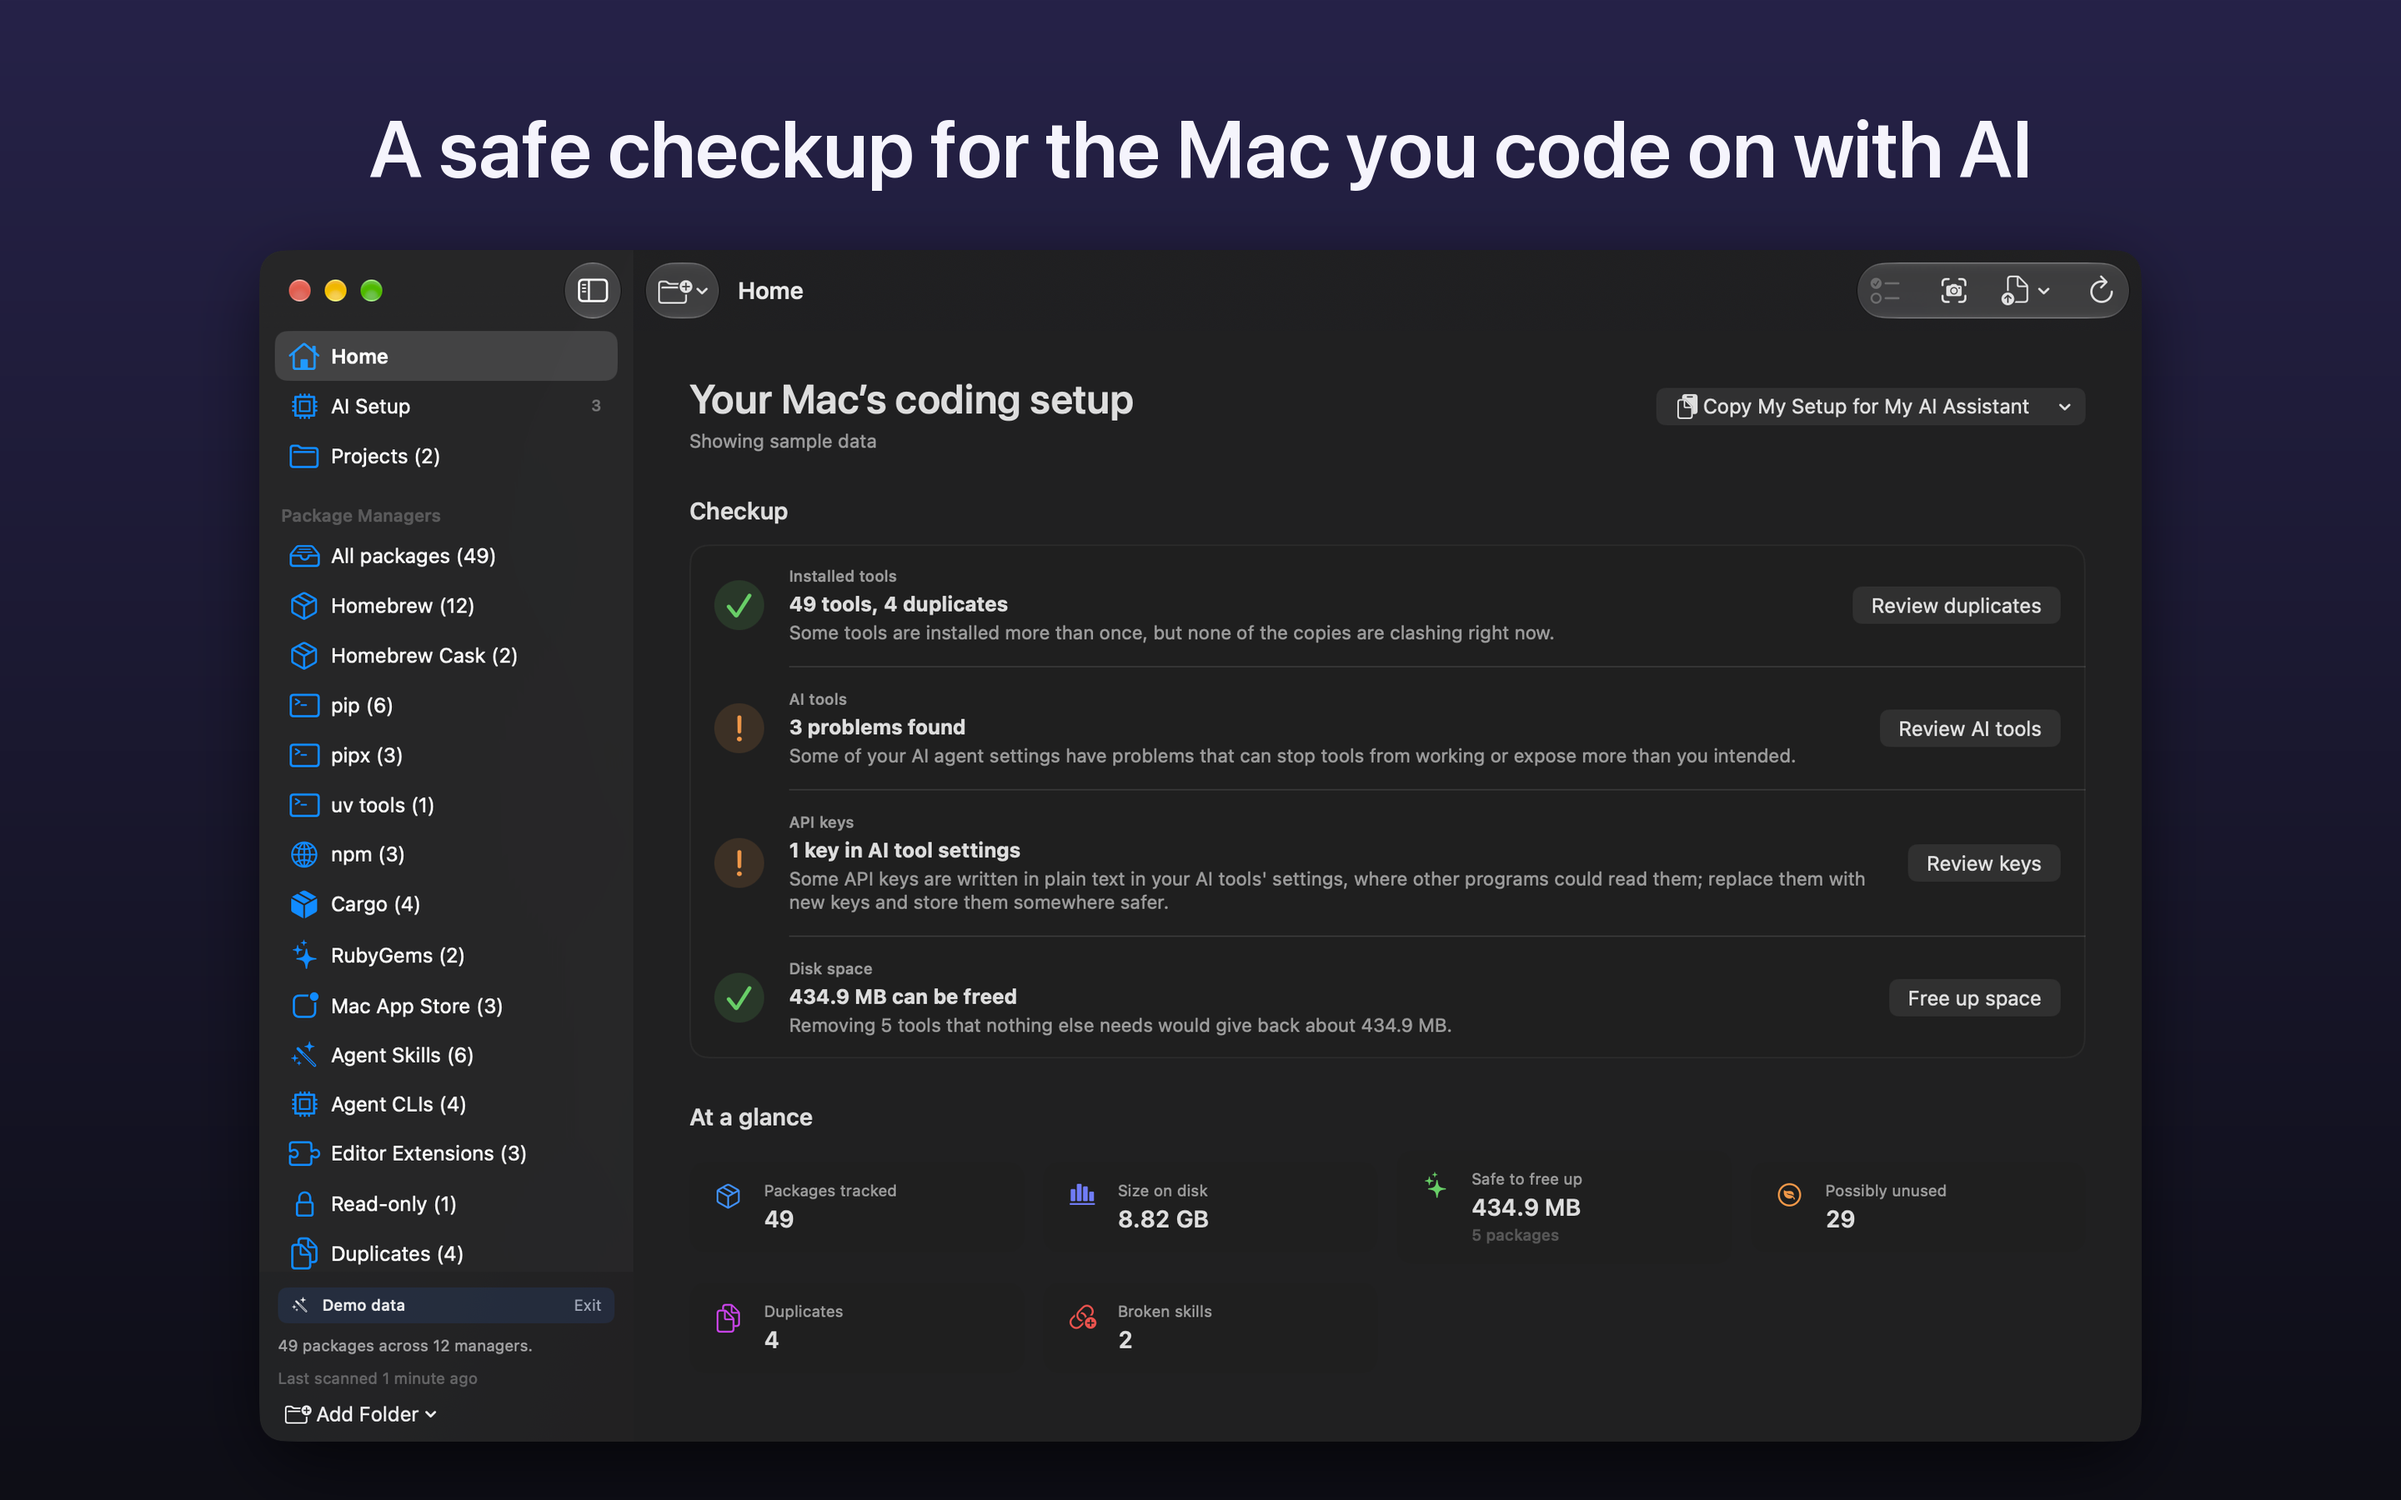
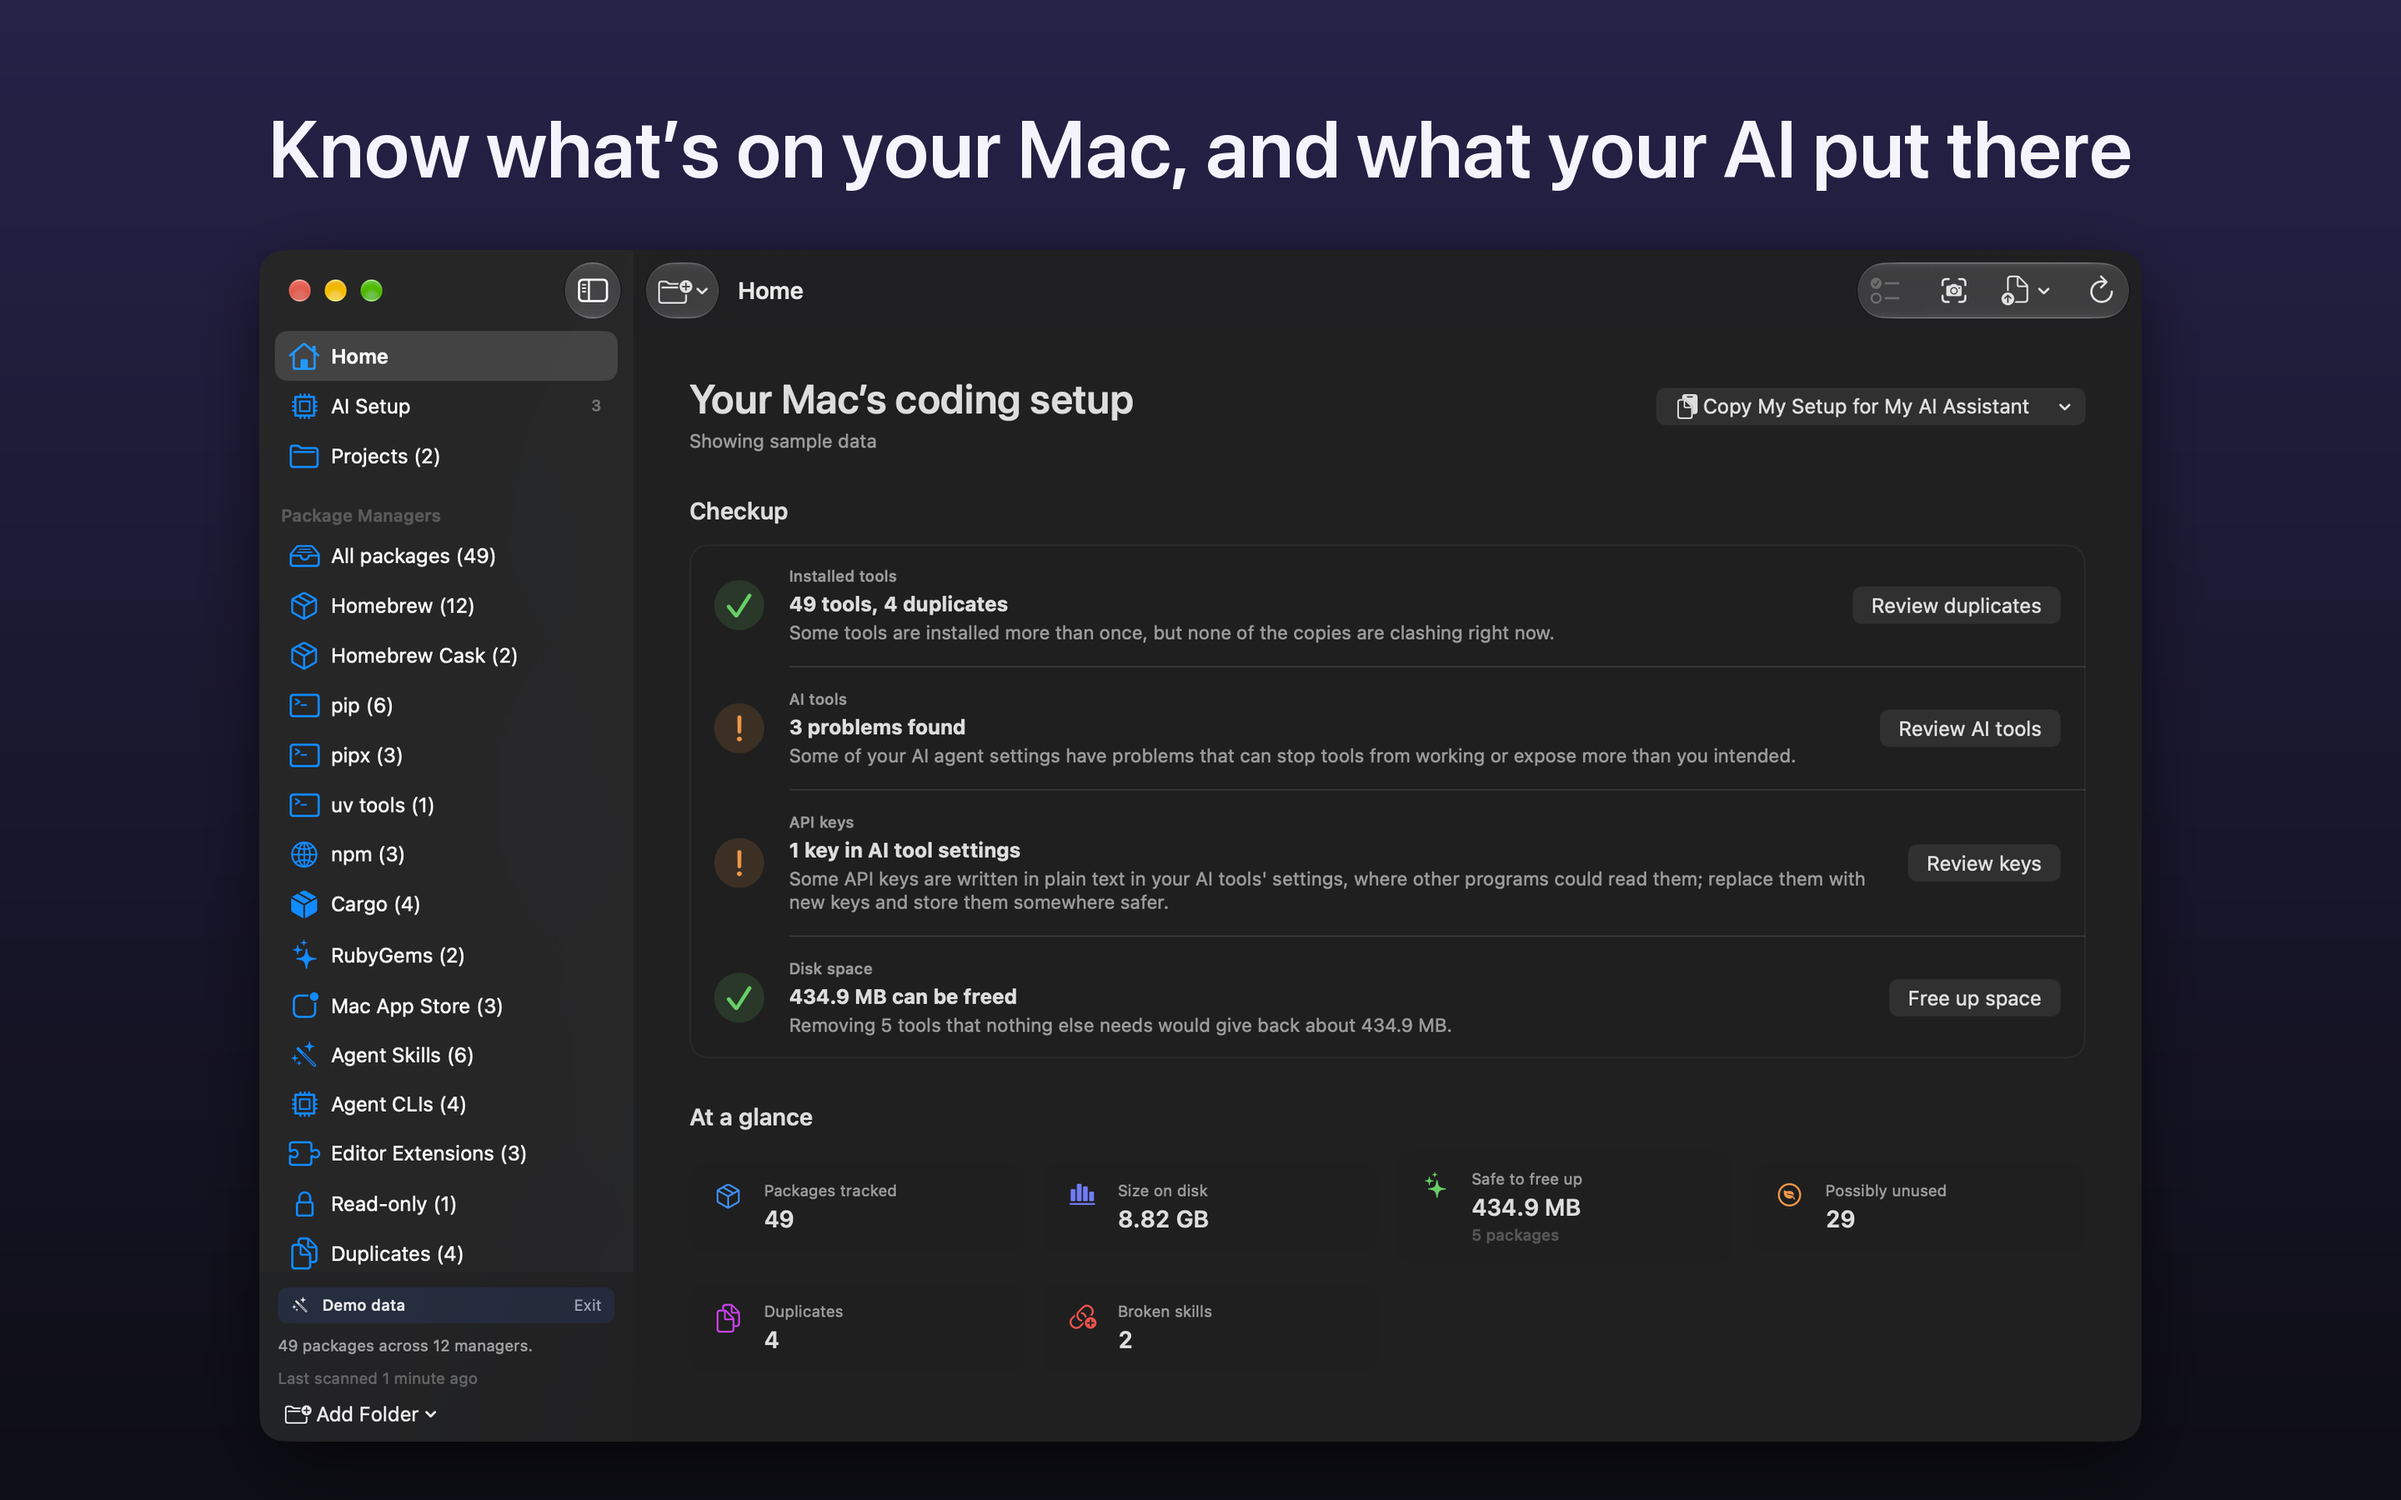
docs: new headline "Know what's on your Mac, and what your AI put there"
Updates README, 1.6 What's New, the listing draft and the first App Store
screenshot caption.

Changed region(s): [[0.0938, 0.0622, 0.9062, 0.1244]]

diff --git a/docs/app-store-listing.md b/docs/app-store-listing.md
@@ -39,10 +39,10 @@ Chars: 156
 
 ## Description (limit 4000)
 
-Chars: 2,404
+Chars: 2,425
 
 ```
-See what's on the Mac you code on with AI, what your AI tools installed and changed, and what's safe to clean up. Installory only reads. It never changes your Mac, never runs commands, and never sends your data anywhere.
+Know what's on your Mac, and what your AI put there. See what your AI coding tools installed and changed, and what's safe to clean up. Installory only reads. It never changes your Mac, never runs commands, and never sends your data anywhere.
 
 A CHECKUP IN PLAIN ENGLISH
 Home shows four rows: installed tools, AI tools, secrets in AI tool settings, and space. Each one says whether it looks good, needs a look, or hasn't been checked yet, and what to do next.
@@ -101,7 +101,7 @@ account). Caption text is overlaid or used as the screenshot's headline.
 
 | # | Screen | Caption | Chars |
 |---|---|---|---|
-| 1 | Home checkup with all four rows, at least one "worth a look" | `A safe checkup for the Mac you code on with AI` | 46 |
+| 1 | Home checkup with all four rows, at least one "worth a look" | `Know what's on your Mac, and what your AI put there` | 51 |
 | 2 | AI Setup: MCP servers list across several apps, a finding expanded | `See every MCP server your AI tools use` | 38 |
 | 3 | AI Setup: a plain-text secret finding with the value masked | `Find API keys left in plain text, safely masked` | 47 |
 | 4 | Package detail with Install History showing an AI-installed tool and the Ask Your AI Assistant menu open | `See what your AI assistant installed` | 36 |

diff --git a/RELEASE.md b/RELEASE.md
@@ -10,12 +10,12 @@ archive from the merged, clean `main` branch.
 
 ### What's New (draft for App Store Connect)
 
-Paste the text between the rules. 1,928 characters; the App Store limit
+Paste the text between the rules. 1,960 characters; the App Store limit
 is 4,000.
 
 ---
 
-Installory is now a read-only checkup for a Mac you code on with AI.
+Know what's on your Mac, and what your AI put there. Installory 1.6 adds a read-only checkup of your AI coding setup.
 
 • New Home checkup: four plain rows for installed tools, AI tools, secrets in AI tool settings, and space. Each says whether it looks good, needs a look, or hasn't been checked yet.
 • New AI Setup screen: see the MCP servers set up in Claude Code, Claude Desktop, Cursor, VS Code, Codex and opencode, plus your CLAUDE.md, AGENTS.md and rules files, and your agent permissions and hooks. Each finding explains the problem in plain English and suggests a fix.

diff --git a/README.md b/README.md
@@ -1,6 +1,6 @@
 # Installory
 
-**The safe, read-only checkup for a Mac you code on with AI.**
+**Know what's on your Mac, and what your AI put there.**
 
 [Mac App Store](https://apps.apple.com/us/app/installory/id6772879429?mt=12) ·
 [installory.app](https://installory.app/) · Free · MIT · macOS 14+
